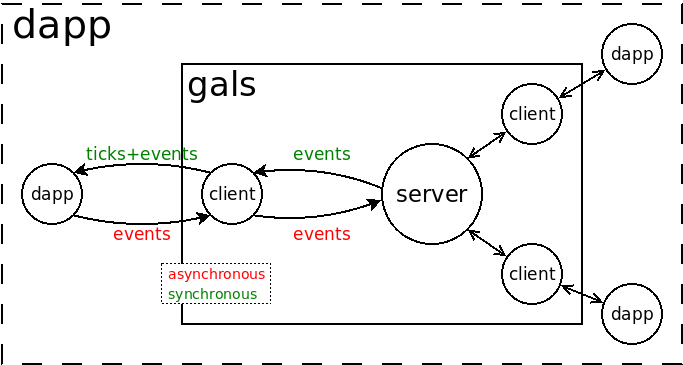
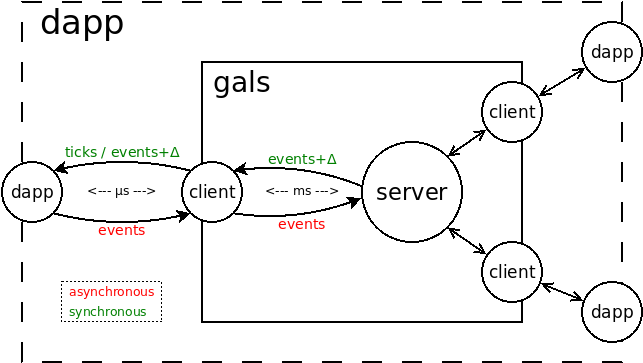
...

diff --git a/paper/rebls-21.tex b/paper/rebls-21.tex
@@ -141,6 +141,7 @@ Section~\ref{sec.related}...
 Section~\ref{sec.conclusion}...
 
 \section{Overall Middleware Architecture}
+\label{sec.arch}
 
 Figure~\ref{fig.middleware} illustrates the client-server architecture of our
 middleware entitled \emph{gals}.
@@ -151,9 +152,28 @@ application).
 The clients, which are part of the middleware, intermediate all communication
 with the server and empowers the \emph{dapp} instances to be specified as a
 local application.
-The server receives asynchronous events in red from the instances (which are
-just forwarded by their clients), and redirects them to all clients, including
-their origin.
+The server receives asynchronous events (in red) from the instances and is
+responsible for redirecting them to all clients as synchronous events with an
+appropriate delay (in green).
+The clients control the clock ticks of the instances and is responsible for
+issuing the received events at the appropriate timestamps.
+
+
+
+, which are
+just forwarded by their clients.
+
+
+
+
+Then, it redirects the events to all clients, including their origin, with an
+appropriate delay.
+The delay is calculated such that 
+
+ so that all clients can.
+
+
+Since instances are indistinguishable,
 
 calculates a delay 
 with a delay
@@ -250,6 +270,7 @@ What about in realtime
 
 
 \section{Local Synchronous Programming}
+\label{sec.sync}
 
 - transparent mechanism
 - all network communication
@@ -264,6 +285,7 @@ What about in realtime
 Concurrent programs in non-deterministic languages are notoriously hard to prove correct and have led to well-known disasters.
 
 \section{GALS Architecture}
+\label{sec.gals}
 
 The ``Globally-Asynchronous Locally-Synchronous Architecture (GALS)''
 integrates multiple independent synchronous processes as a single distributed
